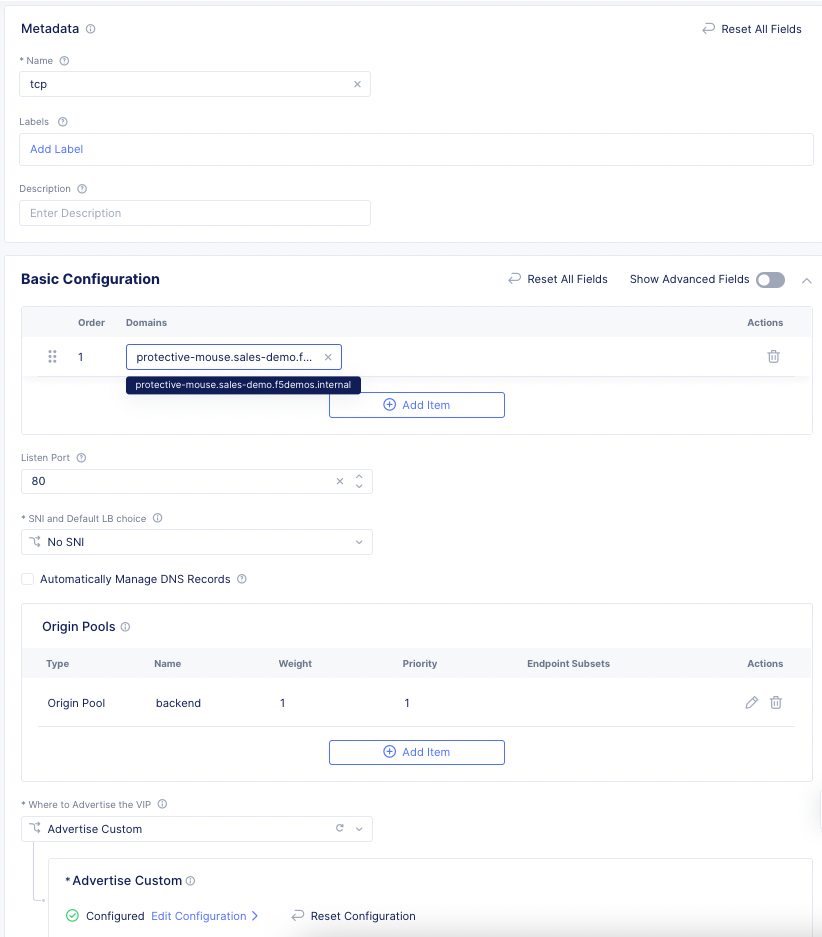
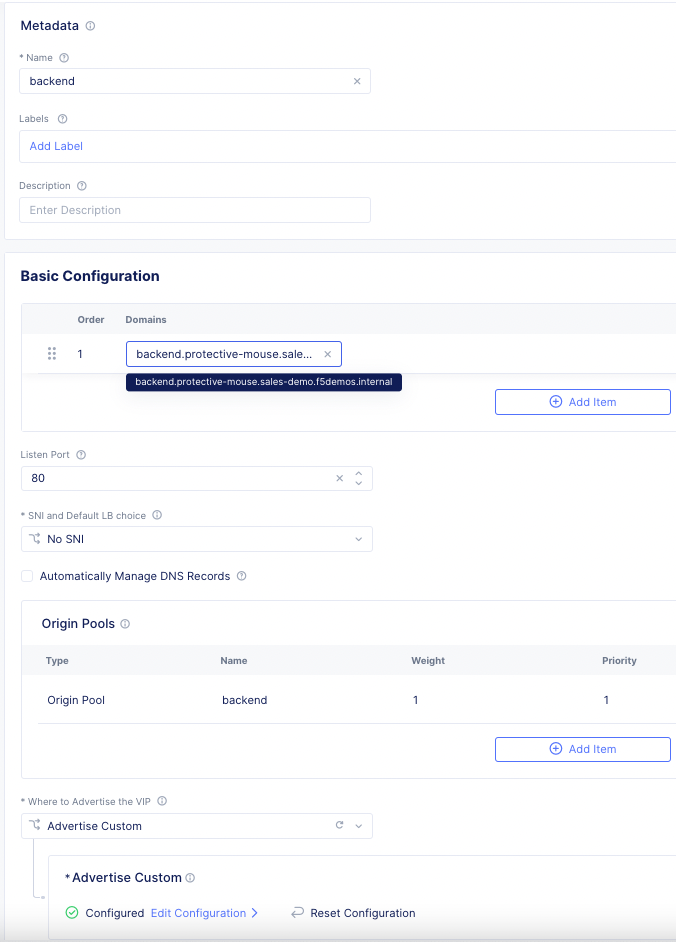
tcp lb updates

diff --git a/lab-guides/intro-to-multi-cloud-networking/module2/lab3.md b/lab-guides/intro-to-multi-cloud-networking/module2/lab3.md
@@ -10,7 +10,7 @@ You will complete the following tasks:
 - Create an Origin Pool for the Azure "backend"
 - Create a TCP Load Balancer and expose the "backend" on F5 Distributed Cloud AWS site
 - Validate DNS again from the AWS "diagnostics" app
-- Connect to the Azure "backend" from the AWS "diagnostics" app
+- Connect to the Azure "backend" from the AWS "diagnostics" app (acting as "internal client")
 
 ![tcplb-lab.png](../images/tcplb-lab.png)
 
@@ -20,7 +20,7 @@ You will complete the following tasks:
 1. "frontend" performs a DNS lookup for "backend"
 2. DNS resolves to the inside interface of the AWS F5 node
 3. "frontend" connects to the inside interface of the AWS F5 node
-4. Connection is forwarded to the Azure F5 node via the F5 Distributed Cloud Global Network
+4. Connection forwarded from AWS F5 node to Azure F5 node via F5 Distributed Cloud Global Network
 5. Azure F5 node connects via inside interface to the "backend" on a private subnet
 
 Exercise 1: Verify DNS
@@ -28,7 +28,7 @@ Exercise 1: Verify DNS
 
 In the previous lab exercise, you made a "In Container Diagnostic Services" service available. This is small application that allows you to run tools to verify DNS and run commands like "curl" to simulate HTTP/HTTPS connections from inside the AWS environment.
 
-1. Reopen the browser window for your URL ("http://***\<adjective-animal\>***.sales-demo.f5demos.com"). It will open the "diagnostics" app.
+1. Reopen the browser window for your URL ("http://diagnostics.***\<adjective-animal\>***.sales-demo.f5demos.com"). It will open the "diagnostics" app.
 2. Click "DNS Lookup".
 3. Enter "ip-10-1-52-200.us-west-2.compute.internal" in the *target* field.
 4. Click "Lookup".
@@ -52,18 +52,18 @@ In the previous lab exercise, you made a "In Container Diagnostic Services" serv
    ;; Query time: 4 msec
 ```
 
-The last step was a basic DNS test to simply illustrate that the "diagnostics" app running in AWS can do a DNS query and receive an answer. The *target* value was the AWS EC2 instance private DNS name, and the answer is the private IP address of the AWS instance. Next, you will verify that there is not yet a DNS record for ***\<adjective-animal\>***.sales-demo.f5demos.internal.
+The last step was a basic DNS test to simply illustrate that the "diagnostics" app running in AWS can do a DNS query and receive an answer. The *target* value was the AWS EC2 instance private DNS name, and the answer is the private IP address of the AWS instance. Next, you will verify that there is not yet a DNS record for backend.***\<adjective-animal\>***.sales-demo.f5demos.internal.
 
 5. Refresh your browser window.
 6. Click "DNS Lookup".
-7. Enter "***\<adjective-animal\>***.sales-demo.f5demos.internal" in the *target* field.
+7. Enter "backend.***\<adjective-animal\>***.sales-demo.f5demos.internal" in the *target* field.
 
 *Note: Replace the host **\<adjective-animal\>** with your namespace (found in "Account Settings"...see [Module2>Lab1](lab1.md))*
 
 8. Click "Lookup".
 
 ```
-   ; <<>> DiG 9.16.1-Ubuntu <<>> @127.0.0.53 protective-mouse.sales-demo.f5demos.internal A
+   ; <<>> DiG 9.16.1-Ubuntu <<>> @127.0.0.53 backend.protective-mouse.sales-demo.f5demos.internal A
    ; (1 server found)
    ;; global options: +cmd
    ;; Got answer:
@@ -73,7 +73,7 @@ The last step was a basic DNS test to simply illustrate that the "diagnostics" a
    ;; OPT PSEUDOSECTION:
    ; EDNS: version: 0, flags:; udp: 65494
    ;; QUESTION SECTION:
-   ;protective-mouse.sales-demo.f5demos.internal. IN A
+   ;backend.protective-mouse.sales-demo.f5demos.internal. IN A
 
    ;; Query time: 24 msec
 ```
@@ -140,13 +140,13 @@ In this exercise, you will create an F5 Distributed Cloud TCP Load Balancer for 
 | Variable | Value |
 | --- | --- |
 | Name | backend |
-| Domains | ***\<adjective-animal\>***.sales-demo.f5demos.internal |
+| Domains | backend.***\<adjective-animal\>***.sales-demo.f5demos.internal |
 | Listen Port | 80 |
 | SNI and Default LB choice | No SNI |
 | Automatically Manage DNS Records | No/Uncheck |
 | Where to Advertise the VIP | Advertise Custom |
 
-> My demo ephemeral namespace is "***protective-mouse***". Therefore my private domain is "***protective-mouse***.sales-demo.f5demos.internal".
+> My demo ephemeral namespace is "***protective-mouse***". Therefore my domain is "backend.***protective-mouse***.sales-demo.f5demos.internal".
 
 4. Under the *Origin Pools* section, click "Add Item".
 5. The method for "Select Origin Pool Method" should be "Origin Pool". Under the "Origin Pool" dropdown menu, select the "backend" you created earlier.
@@ -180,16 +180,16 @@ The F5 Distributed Cloud gateway provides a recursive DNS resolver. You can eith
 
 > For this demo, the internal DNS zone ***sales-demo.f5demos.internal*** has been pre-built in each public cloud environment. The zone is configured to forward all requests to the F5 Distributed Cloud node.
 
-1. Reopen the browser window for your URL ("http://***\<adjective-animal\>***.sales-demo.f5demos.com"). It will open the "diagnostics" app.
+1. Reopen the browser window for your URL ("http://diagnostics.***\<adjective-animal\>***.sales-demo.f5demos.com"). It will open the "diagnostics" app.
 2. Click "DNS Lookup".
-3. Enter "***\<adjective-animal\>***.sales-demo.f5demos.internal" in the *target* field.
+3. Enter "backend.***\<adjective-animal\>***.sales-demo.f5demos.internal" in the *target* field.
 
 *Note: Replace the host **\<adjective-animal\>** with your namespace (found in "Account Settings"...see [Module2>Lab1](lab1.md))*
 
 4. Click "Lookup".
 
 ```
-   ; <<>> DiG 9.16.1-Ubuntu <<>> @127.0.0.53 protective-mouse.sales-demo.f5demos.internal A
+   ; <<>> DiG 9.16.1-Ubuntu <<>> @127.0.0.53 backend.protective-mouse.sales-demo.f5demos.internal A
    ; (1 server found)
    ;; global options: +cmd
    ;; Got answer:
@@ -199,24 +199,24 @@ The F5 Distributed Cloud gateway provides a recursive DNS resolver. You can eith
    ;; OPT PSEUDOSECTION:
    ; EDNS: version: 0, flags:; udp: 65494
    ;; QUESTION SECTION:
-   ;protective-mouse.sales-demo.f5demos.internal. IN A
+   ;backend.protective-mouse.sales-demo.f5demos.internal. IN A
 
    ;; ANSWER SECTION:
-   protective-mouse.sales-demo.f5demos.internal. 300 IN A 10.1.20.39
+   backend.protective-mouse.sales-demo.f5demos.internal. 300 IN A 10.1.20.39
 
    ;; Query time: 0 msec
 ```
 
-You should no longer get an error. In this example, the domain name "protective-mouse.sales-demo.f5demos.internal" resolves internally to the IP address of the F5 Distributed Cloud node internal interface.
+You should no longer get an error. In this example, the domain name "backend.protective-mouse.sales-demo.f5demos.internal" resolves internally to the IP address of the F5 Distributed Cloud node internal interface.
 
 Exercise 5: Connect to the Backend
 ---------------------------------------------------
 
 In this exercise, you will emulate how a distributed application can access a resource that resides in another remote network via the F5 Distributed Cloud Global Network.
 
-1. Reopen the browser window for your URL ("http://***\<adjective-animal\>***.sales-demo.f5demos.com"). It will open the "diagnostics" app.
+1. Reopen the browser window for your URL ("http://diagnostics.***\<adjective-animal\>***.sales-demo.f5demos.com"). It will open the "diagnostics" app.
 2. Click on "Run Command".
-3. Enter "curl -s http://***\<adjective-animal\>***.sales-demo.f5demos.internal" in the field.
+3. Enter "curl -s http://backend.***\<adjective-animal\>***.sales-demo.f5demos.internal" in the field.
 
 *Note: Replace the host **\<adjective-animal\>** with your namespace (found in "Account Settings"...see [Module2>Lab1](lab1.md))*
 
@@ -244,7 +244,7 @@ In this exercise, you will emulate how a distributed application can access a re
     Request Method: GET
        Request URI: /
 
-       host_header: protective-mouse.sales-demo.f5demos.internal
+       host_header: backend.protective-mouse.sales-demo.f5demos.internal
         user-agent: curl/7.68.0
 
    command completed with return code:0
